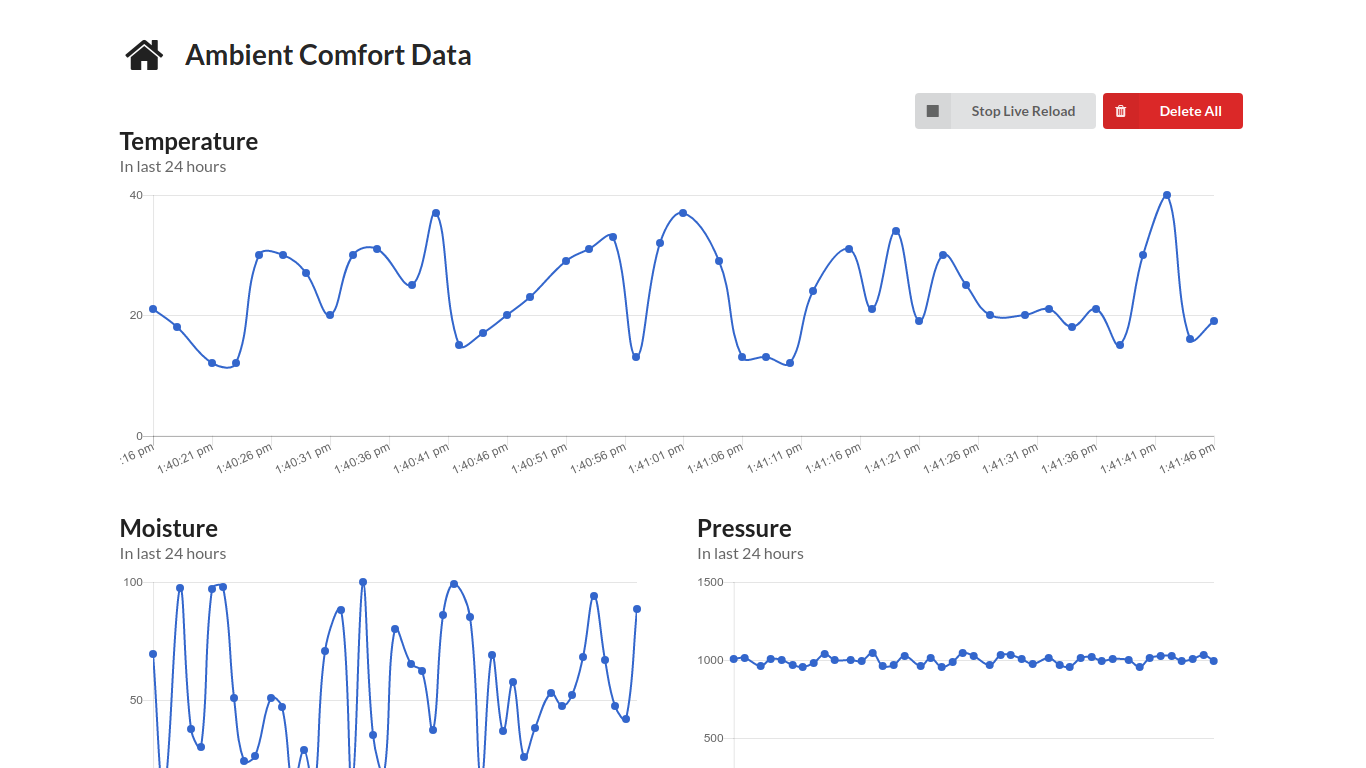
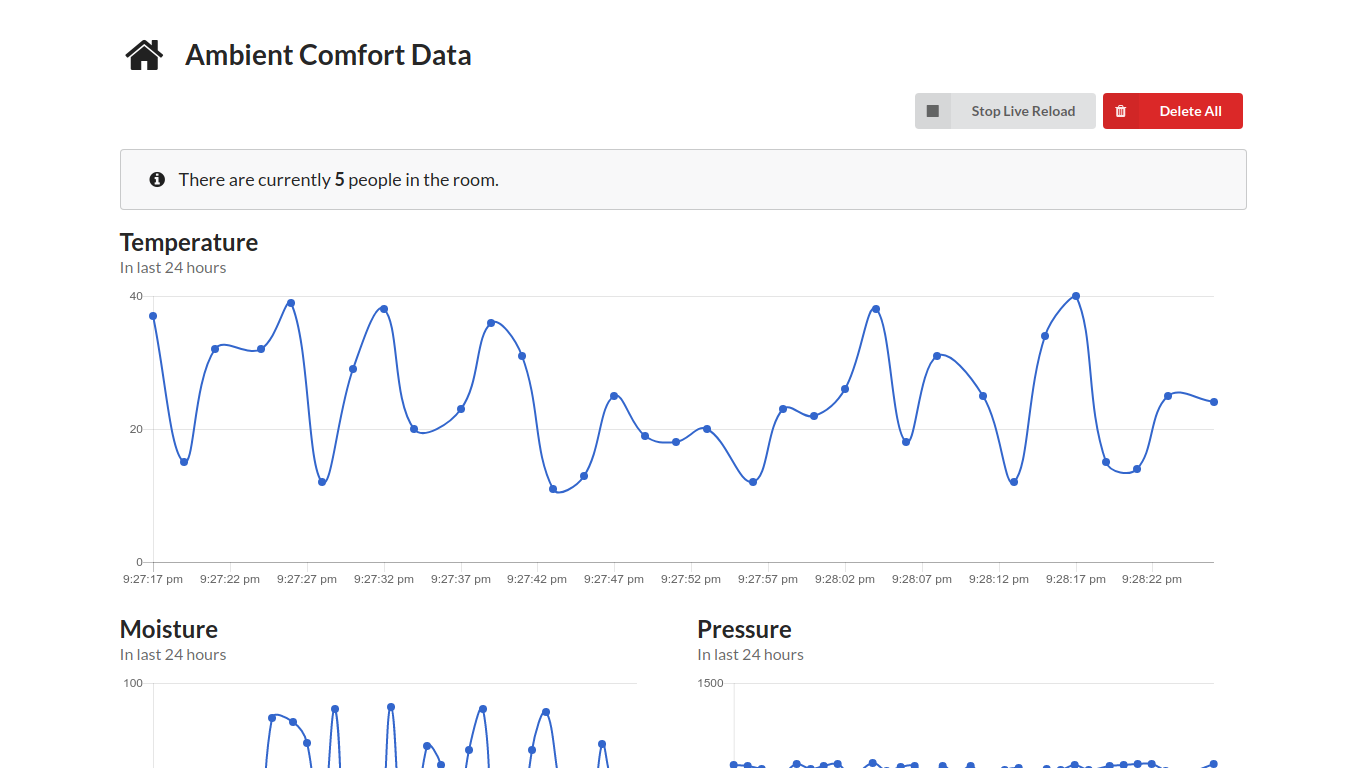
Updated screenshots

diff --git a/app/controllers/application_controller.rb b/app/controllers/application_controller.rb
@@ -4,7 +4,7 @@ class ApplicationController < ActionController::Base
   def root
     @logs = Log.all.order(created_at: :desc).paginate(page: params[:page], per_page: 30)
     @latest_logs = Log.where('logs.created_at >= ?', DateTime.now.yesterday).order(created_at: :desc)
-    @message = Log.last.message
+    @message = Log.last.try(:message)
     respond_to do |format|
       format.html
       format.js
